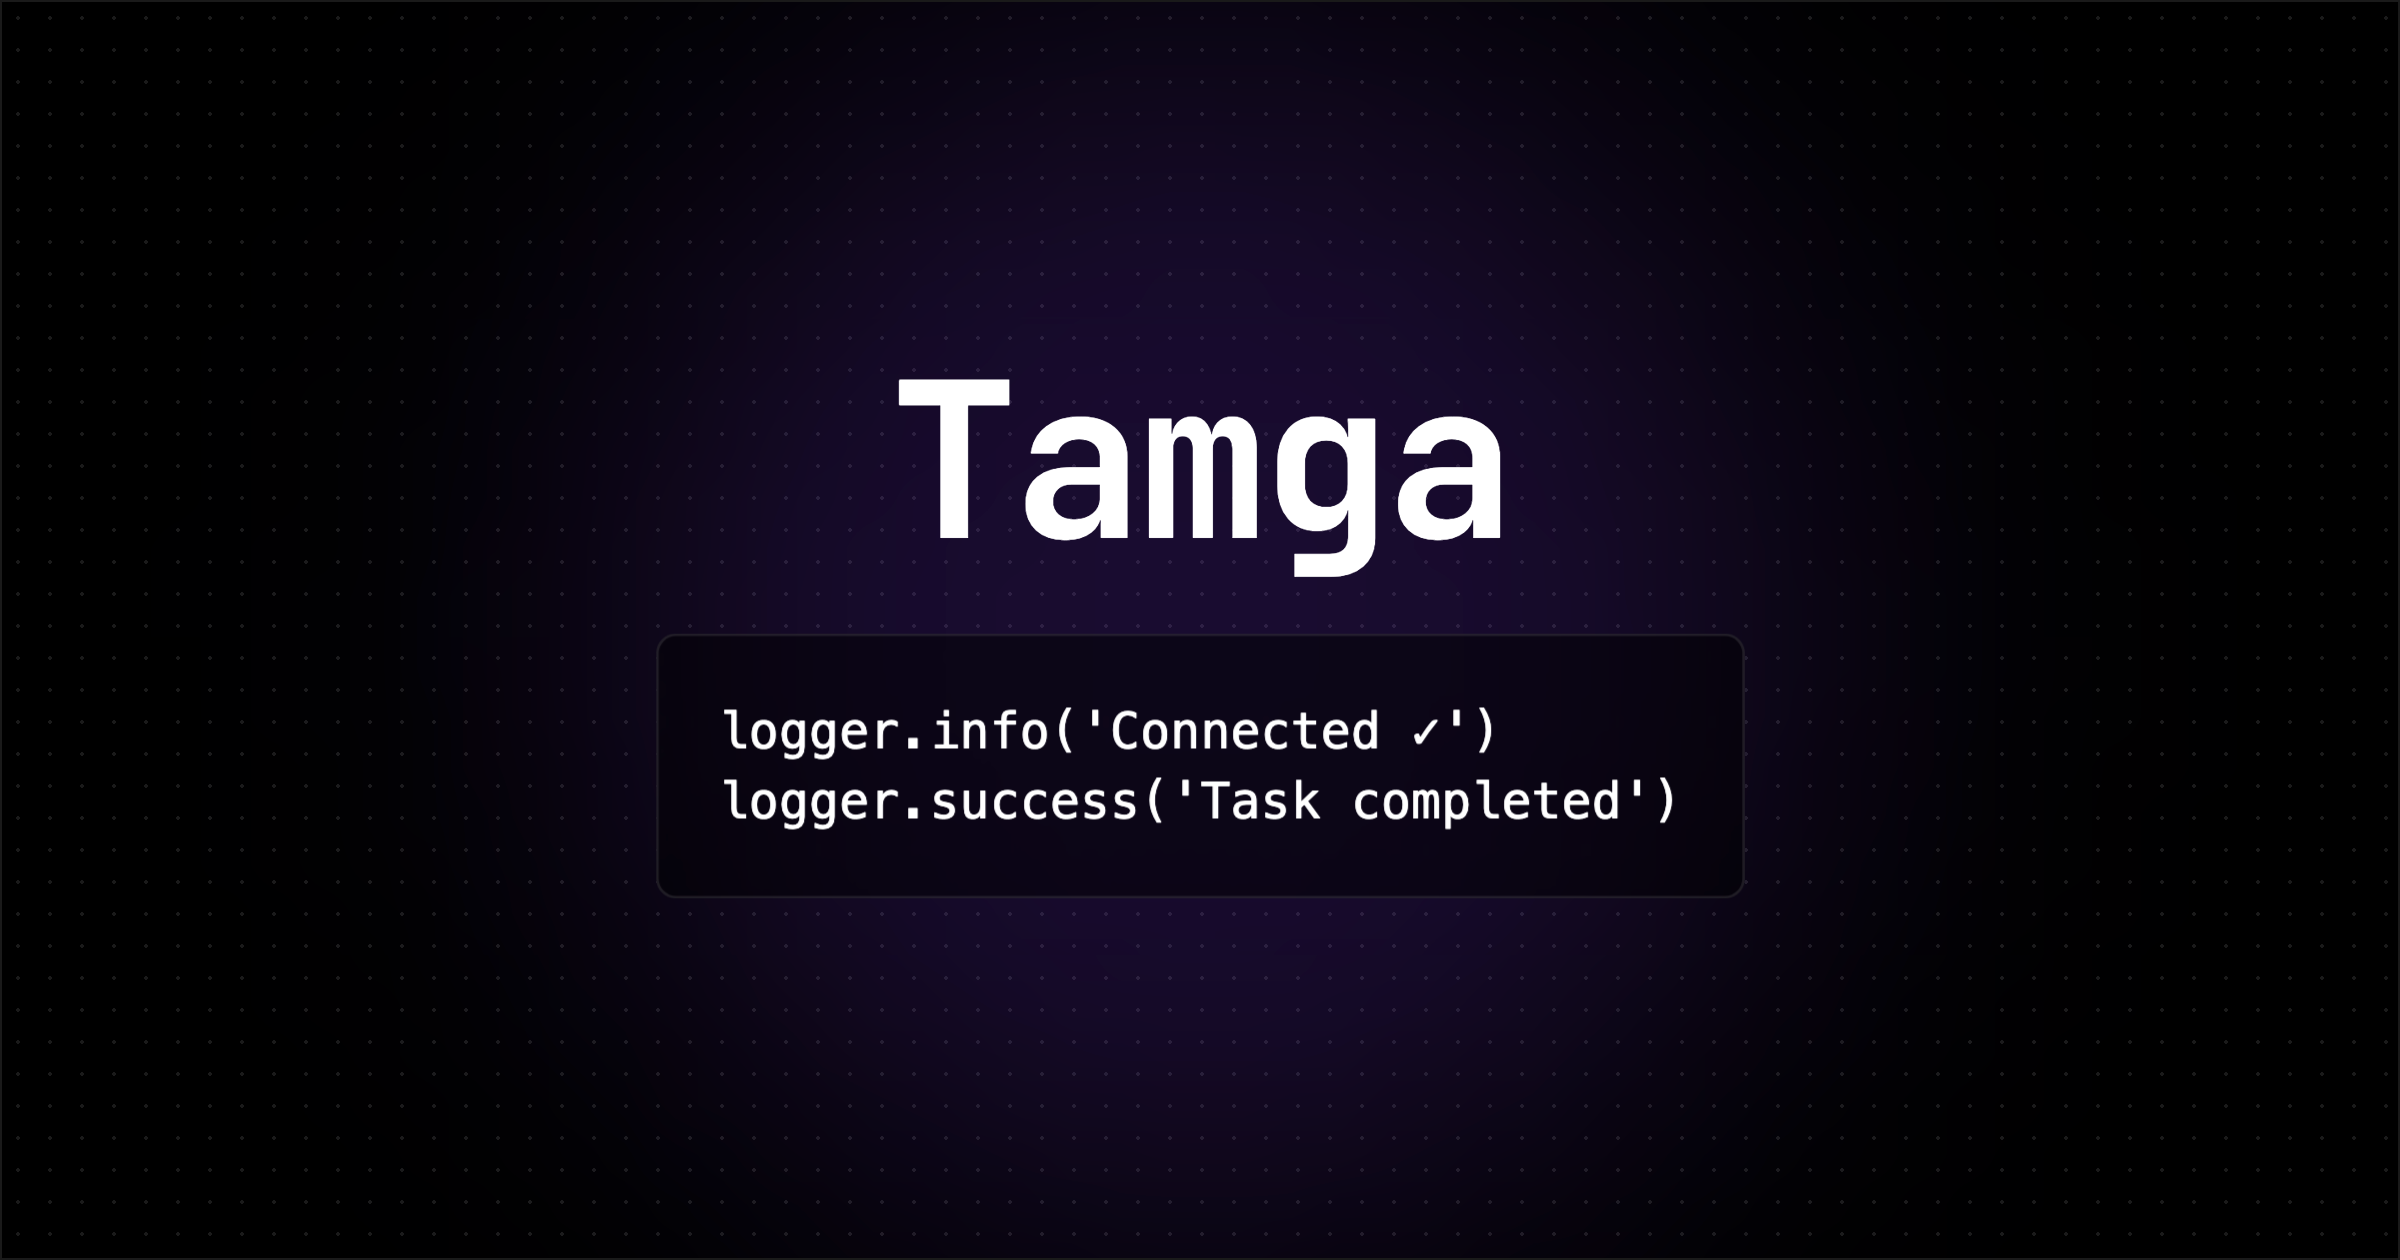
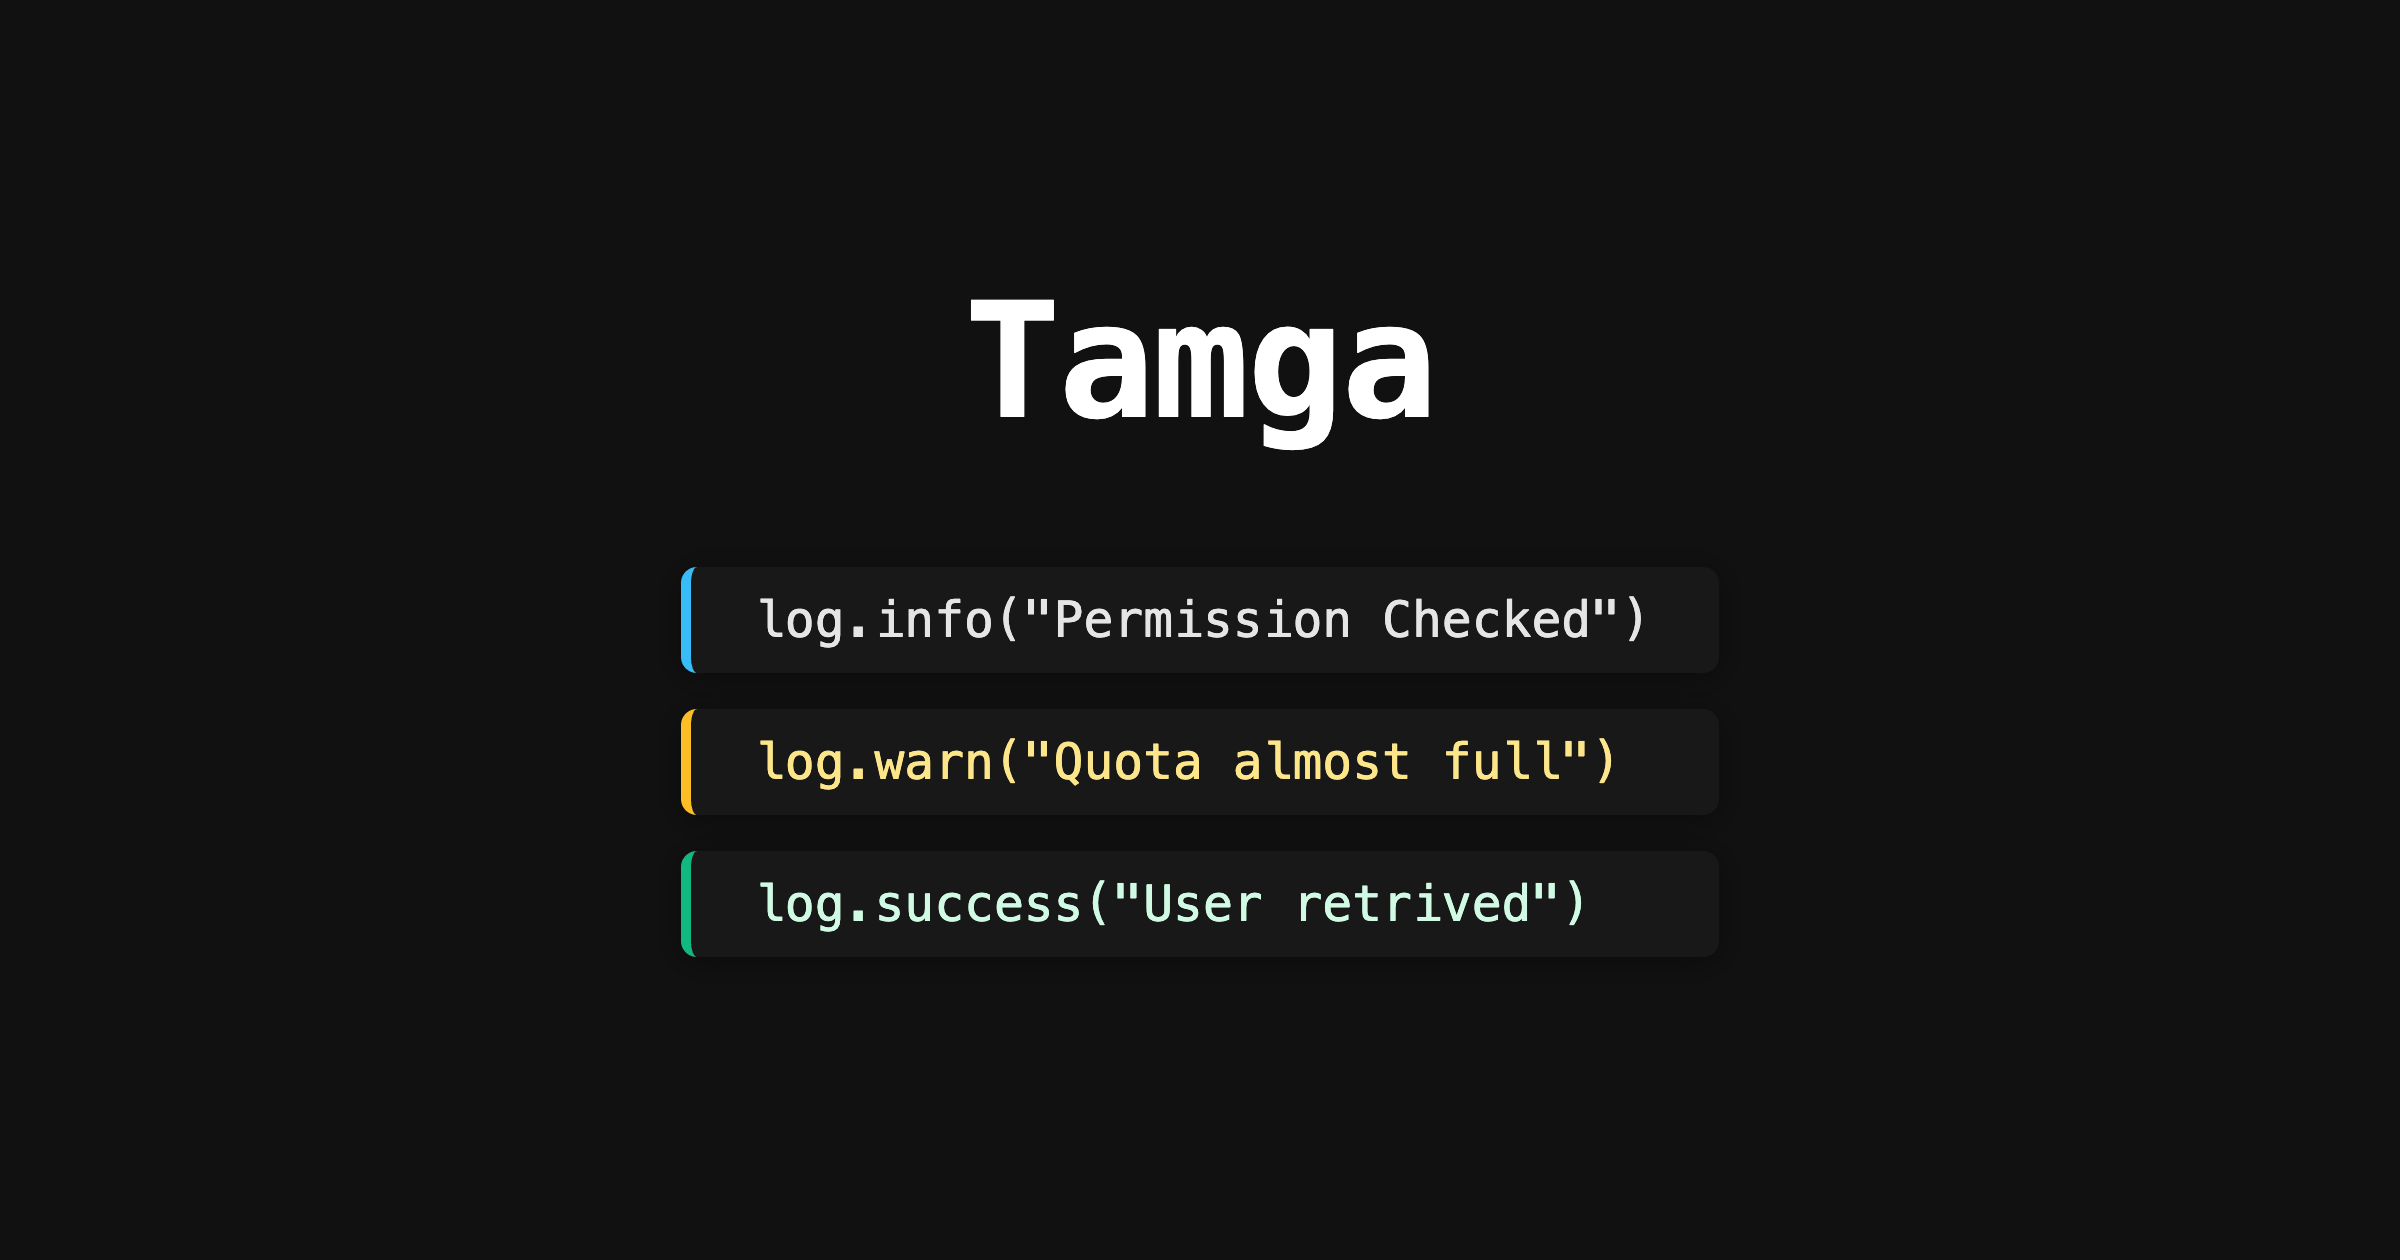
Add OG image HTML and update og.png asset
Introduces og.html for generating a styled Open Graph image preview and updates the og.png asset to match the new design.

Changed region(s): [[0.2812, 0.2167, 0.6875, 0.5262], [0.2812, 0.5571, 0.6875, 0.65], [0.2812, 0.681, 0.6562, 0.8048]]

diff --git a/og.html b/og.html
@@ -1,0 +1,76 @@
+<!doctype html>
+<html lang="en">
+    <head>
+        <meta charset="UTF-8" />
+        <title>Tamga OG Image</title>
+        <meta name="viewport" content="width=1200, initial-scale=1.0" />
+        <meta name="robots" content="noindex" />
+        <style>
+            html,
+            body {
+                width: 1200px;
+                height: 630px;
+                margin: 0;
+                padding: 0;
+                background: #111;
+                color: #fff;
+                font-family: "Menlo", "Consolas", "Monaco", monospace;
+                overflow: hidden;
+            }
+            body {
+                width: 1200px;
+                height: 630px;
+                display: flex;
+                align-items: center;
+                justify-content: center;
+            }
+            .og-content {
+                display: flex;
+                flex-direction: column;
+                align-items: center;
+                justify-content: center;
+                width: 100%;
+                height: 100%;
+            }
+            .tamga-title {
+                font-size: 5rem;
+                font-weight: bold;
+                letter-spacing: -1px;
+                margin-bottom: 56px;
+                color: #fff;
+            }
+            .log-line {
+                font-size: 1.55rem;
+                background: #181818;
+                border-radius: 8px;
+                padding: 12px 32px;
+                margin-bottom: 18px;
+                width: 450px;
+                box-shadow: 0 2px 16px #0006;
+                border-left: 5px solid #38bdf8;
+                color: #e5e5e5;
+                font-family: "Menlo", "Consolas", "Monaco", monospace;
+                text-align: left;
+                display: flex;
+                align-items: center;
+                justify-content: flex-start;
+            }
+            .log-line.success {
+                border-left-color: #10b981;
+                color: #d1fae5;
+            }
+            .log-line.warn {
+                border-left-color: #fbbf24;
+                color: #fde68a;
+            }
+        </style>
+    </head>
+    <body>
+        <div class="og-content">
+            <div class="tamga-title">Tamga</div>
+            <div class="log-line">log.info("Permission Checked")</div>
+            <div class="log-line warn">log.warn("Quota almost full")</div>
+            <div class="log-line success">log.success("User retrived")</div>
+        </div>
+    </body>
+</html>
